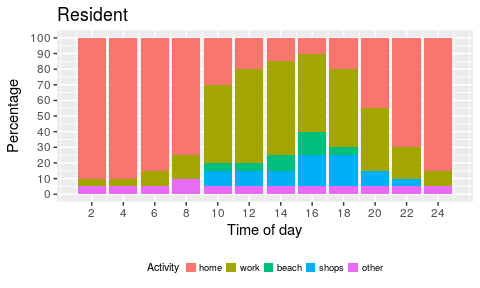
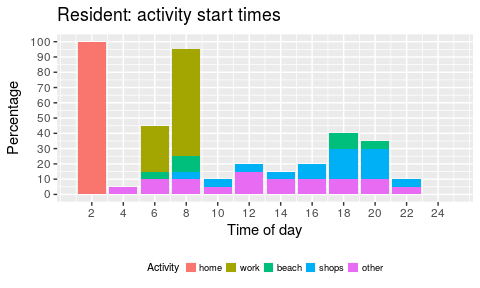
SCS: population synthesis process (work in progress)

diff --git a/examples/bushfire/scenarios/surf-coast-shire/data/synthetic-population/synthetic-population.html b/examples/bushfire/scenarios/surf-coast-shire/data/synthetic-population/synthetic-population.html
@@ -266,17 +266,17 @@ The key drawback of this approach is that the preparatory process requires manua
 <h3>Scratchpad</h3>
 <p><em>What is below is work in progress so please ignore for now.</em></p>
 <hr />
-<div id="dhi-2-may-2018" class="section level4">
-<h4>Dhi, 2 May 2018</h4>
+<div id="dhi-ver-0.2" class="section level4">
+<h4>Dhi, ver 0.2</h4>
 <p>Outputs of agent-based simulation models are inherently very sensitive to the input population. For the GOR DSS, defining where the population is, what it is doing, and what it will do in response to an emergency will strongly influence the outputs.</p>
 <p>This is a proposal for <em>how the population will be specified by users</em>. The intent is to:</p>
 <ul>
 <li>make all inputs and assumptions about the underlying population explicit so that they can be more easily critiqued, debated, and agreed upon;</li>
 <li>allow differences between populations of different scenarios to be easily understood and described;</li>
-<li>allow users to generate populations for different scenarios easily and quickly; and</li>
+<li>allow users to generate populations for different scenarios easily; and</li>
 <li>formalise the method of producing such populations, so that they can be accurately reproduced.</li>
 </ul>
-<p>In particular, what is proposed is a process for the construction of the input population with respect to the <em>expected spread of activites in the day</em> for a given situation. The <em>output of the process is a CSV file</em>, similar to what is currently used as input to the DSS, that describes the daily activity-plan for every individual in the population.</p>
+<p>In particular, what is proposed is a process for the construction of the input population with respect to the <em>expected spread of activites in the day</em> for different situations. The <em>output of the process is a CSV file</em>, similar to what is currently used as input to the DSS, that describes the daily activity-plan for every individual in the population.</p>
 <p>We will make the following assumptions with respect to the activities of the population:</p>
 <ol style="list-style-type: decimal">
 <li>The choice of activities will be limited to the following fixed set:</li>
@@ -295,40 +295,58 @@ The key drawback of this approach is that the preparatory process requires manua
 <tbody>
 <tr class="odd">
 <td><strong><code>home</code></strong></td>
-<td><em>performed once in a 24hr period</em> at the home location of a person; these locations could either be random locations in the region, or random selections from known street addresses in the region (data available from LandVic); <mark>other suggestions welcome</mark>;</td>
+<td><em>performed twice a day (morning, night)</em> at the home location of a person; these locations could either be random locations in the region, or random selections from known street addresses in the region (data available from LandVic); <mark>other suggestions welcome</mark>;</td>
 </tr>
 <tr class="even">
 <td><strong><code>work</code></strong></td>
-<td><em>performed once in a 24hr period</em> at locations designated as work areas in the region; persons will be assigned arbitrary work location coordinates in these areas; <mark>supplied by Surf Coast Shire Council</mark></td>
+<td><em>performed once a day</em> at locations designated as work areas in the region (<mark>supplied by Surf Coast Shire Council</mark>); persons will be assigned arbitrary work location coordinates in these areas; the proportion of the resident population that forms the working cohort will be based on census data for the region (<code>ABS 2016: SCS had 90.6% employed of which 66% drive to work</code>);</td>
 </tr>
 <tr class="odd">
 <td><strong><code>shop</code></strong></td>
-<td><em>performed potentially once in a 24hr period</em> at locations that represent retail and grocery shops as well as dining places; <mark>supplied by Surf Coast Shire Council</mark></td>
+<td><em>performed potentially once a day</em> at locations that represent retail and grocery shops as well as dining places; <mark>supplied by Surf Coast Shire Council</mark></td>
 </tr>
 <tr class="even">
 <td><strong><code>beach</code></strong></td>
-<td><em>performed potentially once in a 24hr</em> period at areas designated as key destinations along the coast; people visiting beaches will have equal preference for all beaches; <mark>supplied by Surf Coast Shire Council</mark></td>
+<td><em>performed potentially once a day</em> at areas designated as beach destinations along the coast (<mark>supplied by Surf Coast Shire Council</mark>); the population will have equal preference for all beaches;</td>
 </tr>
 <tr class="odd">
 <td><strong><code>other</code></strong></td>
-<td><em>performed potentially several times in a 24hr period</em>; this is a catch-all activity type to capture the fact that any given time of the day some proportion of the population will be at locations other than the above (not including commuting); people performing this activity will be placed at arbitrary locations in the region; this activity will also be used as needed twithin daily plans in order to make them coherent.</td>
+<td><em>performed potentially several times a day</em> at arbitrary locations other than those above (not including commuting); will be used as needed to make daily plans coherent.</td>
 </tr>
 </tbody>
 </table>
 <ol style="list-style-type: decimal">
 <li>Each population subgroup (i.e, <code>resident</code>, <code>regular visitor</code>, <code>tourust</code>) will differ in how they perform the above activities in the following ways:
 <ol style="list-style-type: decimal">
-<li>The proportions in which subgroups perform activities will be different; for instance tourists might be more likely to go to the beach than residents; another example is that all residents will perform the home activity while none of the tourists will.</li>
+<li>The proportions in which subgroups perform different activities will be different; for instance tourists might be more likely to go to the beach than residents; another example is that all residents will perform the home activity while none of the tourists will.</li>
 <li>The times at which subgroups perform activities will be different: for instance, tourists might be more likely to visit the beach around noon, whereas residents might be more inclined to go to the beach in the mornings and evenings to avoid the rush.</li>
 <li>The durations for which each subgroup performs activites will be different: for instance, tourists might spend more time at the beach than residents.</li>
 </ol></li>
-<li><p>Overall, individuals will differ in the makeup of their daily activity plans with respect to which activities they perform, when, for how long, and in which order.</p></li>
-<li><p>Each activity will be fully described by two distributions specifying (1) the expected start times in the day for the activity and (2) the duration of the activity; these will differ for different situations such as between weekdays and weekends, and also for subgroups, such as residents and tourists. Each scenario, such as “typical weekday” , will therefore be fully specified by six distributons (2 activity distributions x 3 subgroups). Each new scenario, such as “weekend”, “crowded beach day with FFDI of 100” will require additional 6 distributions. This will literally take the form of six graphs on a single page that are to be discussed and agreed upon for every new scenario, so is not expected to be too onerous for users.</p></li>
-<li><p>No change is proposed (yet) to the relationship between cars and persons. Currently in the model there is a one-to-one mapping from persons to vehicles such that every person drives in a separate vehicle. This means that <em>no consideration is given to family units and carpooling; also walking to vehicle which might be at a distance is not currently modelled</em> (but might be something that should be modelled, given the importance of beaches in the region).</p></li>
+<li><p>Overall, individuals in the full population will differ in the makeup of their daily activity plans with respect to which activities they perform, when, for how long, and in which order.</p></li>
+<li><p>Each activity will be fully described by (1) a distribution specifying the expected start times in the day for the activity and (2) the <em>typical duration</em> of the activity (more on this below); these will differ for different situations such as between weekdays and weekends, and also for subgroups, such as between residents and tourists. Each scenario, such as “typical weekday” , will therefore be fully specified by three distributons (one per subgroup) and three activity durations. Each new scenario, such as “weekend”, “40 degree day” will require three new distributions (and activity durations) each, so is not expected to be too onerous for users.</p></li>
+<li><p>The <code>typical duration</code> of an activity is the time a person will spend performing that activity under normal conditions, for instance 8hrs for <code>work</code>. The actual duration might get squeezed or stretched depending on how things play out during the simulation, such as due to traffic congestion. Details of the precise algorithm for this can be found in the MATSim user guide.</p></li>
+<li><p>Currently in the model <em>persons</em> are synonomous with <em>vehicles</em>. In other words, all vehicles accommodate a single person (the driver) and drivers are assumed to be co-located with their vehicles. For SCS, it <em>might be important to model persons walking to activities from their parked vehicles and back at the end of the activity</em>. This might be important for the <code>beach</code> activity in particular, where the time spent in walking from/to the parked vehicle might be significant; <mark>Discuss with working group</mark>.</p></li>
 </ol>
+<p>The following graphs show what the activity start time distributions and durations might look like for a “typical weekday”:</p>
[1 lines of base64/hex data omitted]
+<pre><code>## [1] &quot;Activity start times (24hrs split over columns)&quot;</code></pre>
+<pre><code>##       [,1] [,2] [,3] [,4] [,5] [,6] [,7] [,8] [,9] [,10] [,11] [,12]
+## home   100    0    0    0    0    0    0    0    0     0     0     0
+## work     0    0   30   70    0    0    0    0    0     0     0     0
+## beach    0    0    5   10    0    0    0    0   10     5     0     0
+## shops    0    0    0    5    5    5    5   10   20    20     5     0
+## other    0    5   10   10    5   15   10   10   10    10     5     0</code></pre>
+<pre><code>## Row sums (can exceed 100 if performed multiple times in the day): 100 100 30 75 90</code></pre>
+<pre><code>## Col sums (should not exceed 100): 100 5 45 95 10 20 15 20 40 35 10 0</code></pre>
+<pre><code>##   activity typical_duration
+## 1     home               12
+## 2     work                8
+## 3    beach                2
+## 4    shops                1
+## 5    other                1</code></pre>
 </div>
-<div id="dhi-1-may-2018" class="section level4">
-<h4>Dhi, 1 May 2018</h4>
+<div id="dhi-v0.1" class="section level4">
+<h4>Dhi, v0.1</h4>
 <p>The plots below show what the distribution of activities might look like for the identified groups <em>on a typical weekday</em>.</p>
 <pre><code>##       [,1] [,2] [,3] [,4] [,5] [,6] [,7] [,8] [,9] [,10] [,11] [,12]
 ## home    90   90   85   75   30   20   15   10   20    45    70    85

diff --git a/examples/bushfire/scenarios/surf-coast-shire/data/synthetic-population/synthetic-population.md b/examples/bushfire/scenarios/surf-coast-shire/data/synthetic-population/synthetic-population.md
@@ -74,7 +74,10 @@ The above information could then be used to automatically construct a "daily pla
 
 ---
 
-#### Dhi, 2 May 2018
+
+
+
+#### Dhi, ver 0.2
 
 Outputs of agent-based simulation models are inherently very sensitive to the input population. For the GOR DSS, defining where the population is, what it is doing, and what it will do in response to an emergency will strongly influence the outputs. 
 
@@ -82,10 +85,10 @@ This is a proposal for *how the population will be specified by users*. The inte
 
 * make all inputs and assumptions about the underlying population explicit so that they can be more easily critiqued, debated, and agreed upon;
 * allow differences between populations of different scenarios to be easily understood and described;
-* allow users to generate populations for different scenarios easily and quickly; and
+* allow users to generate populations for different scenarios easily; and
 * formalise the method of producing such populations, so that they can be accurately reproduced.
 
-In particular, what is proposed is a process for the construction of the input population with respect to the *expected spread of activites in the day* for a given situation. The *output of the process is a CSV file*, similar to what is currently used as input to the DSS, that describes the daily activity-plan for every individual in the population.
+In particular, what is proposed is a process for the construction of the input population with respect to the *expected spread of activites in the day* for different situations. The *output of the process is a CSV file*, similar to what is currently used as input to the DSS, that describes the daily activity-plan for every individual in the population.
 
 We will make the following assumptions with respect to the activities of the population:
 
@@ -93,27 +96,61 @@ We will make the following assumptions with respect to the activities of the pop
 
 Activity | Description
 ---------- | -------------------------------------------------------------------
-**`home`** | *performed once in a 24hr period* at the home location of a person; these locations could either be random locations in the region, or random selections from known street addresses in the region (data available from LandVic); <mark>other suggestions welcome</mark>;
-**`work`** | *performed once in a 24hr period* at locations designated as work areas in the region; persons will be assigned arbitrary work location coordinates in these areas; <mark>supplied by Surf Coast Shire Council</mark>
-**`shop`** | *performed potentially once in a 24hr period* at locations that represent retail and grocery shops as well as dining places; <mark>supplied by Surf Coast Shire Council</mark> 
-**`beach`** | *performed potentially once in a 24hr* period at areas designated as key destinations along the coast; people visiting beaches will have equal preference for all beaches; <mark>supplied by Surf Coast Shire Council</mark> 
-**`other`** | *performed potentially several times in a 24hr period*; this is a catch-all activity type to capture the fact that any given time of the day some proportion of the population will be at locations other than the above (not including commuting); people performing this activity will be placed at arbitrary locations in the region; this activity will also be used as needed twithin daily plans in order to make them coherent.
+**`home`** | *performed twice a day (morning, night)* at the home location of a person; these locations could either be random locations in the region, or random selections from known street addresses in the region (data available from LandVic); <mark>other suggestions welcome</mark>;
+**`work`** | *performed once a day* at locations designated as work areas in the region (<mark>supplied by Surf Coast Shire Council</mark>); persons will be assigned arbitrary work location coordinates in these areas; the proportion of the resident population that forms the working cohort will be based on census data for the region (`ABS 2016: SCS had 90.6% employed of which 66% drive to work`); 
+**`shop`** | *performed potentially once a day* at locations that represent retail and grocery shops as well as dining places; <mark>supplied by Surf Coast Shire Council</mark> 
+**`beach`** | *performed potentially once a day* at areas designated as beach destinations along the coast (<mark>supplied by Surf Coast Shire Council</mark>); the population will have equal preference for all beaches; 
+**`other`** | *performed potentially several times a day* at arbitrary locations other than those above (not including commuting); will be used as needed to make daily plans coherent.
 
 1. Each population subgroup (i.e, `resident`, `regular visitor`, `tourust`) will differ in how they perform the above activities in the following ways:
-    1. The proportions in which subgroups perform activities will be different; for instance tourists might be more likely to go to the beach than residents; another example is that all residents will perform the home activity while none of the tourists will.
+    1. The proportions in which subgroups perform different activities will be different; for instance tourists might be more likely to go to the beach than residents; another example is that all residents will perform the home activity while none of the tourists will.
     1. The times at which subgroups perform activities will be different: for instance, tourists might be more likely to visit the beach around noon, whereas residents might be more inclined to go to the beach in the mornings and evenings to avoid the rush.
     1. The durations for which each subgroup performs activites will be different: for instance, tourists might spend more time at the beach than residents.
 
-1. Overall, individuals will differ in the makeup of their daily activity plans with respect to which activities they perform, when, for how long, and in which order.
+1. Overall, individuals in the full population will differ in the makeup of their daily activity plans with respect to which activities they perform, when, for how long, and in which order.
 
-1. Each activity will be fully described by two distributions specifying (1) the expected start times in the day for the activity and (2) the duration of the activity; these will differ for different situations such as between weekdays and weekends, and also for subgroups, such as residents and tourists. Each scenario, such as "typical weekday" , will therefore be fully specified by six distributons (2 activity distributions x 3 subgroups). Each new scenario, such as "weekend", "crowded beach day with FFDI of 100" will require additional 6 distributions. This will literally take the form of six graphs on a single page that are to be discussed and agreed upon for every new scenario, so is not expected to be too onerous for users.
+1. Each activity will be fully described by (1) a distribution specifying the expected start times in the day for the activity and (2) the *typical duration* of the activity (more on this below); these will differ for different situations such as between weekdays and weekends, and also for subgroups, such as between residents and tourists. Each scenario, such as "typical weekday" , will therefore be fully specified by three distributons (one per subgroup) and three activity durations. Each new scenario, such as "weekend", "40 degree day" will require three new distributions (and activity durations) each, so is not expected to be too onerous for users.
 
-1. No change is proposed (yet) to the relationship between cars and persons. Currently in the model there is a one-to-one mapping from persons to vehicles such that every person drives in a separate vehicle. This means that *no consideration is given to family units and carpooling; also walking to vehicle which might be at a distance is not currently modelled* (but might be something that should be modelled, given the importance of beaches in the region).
+  1. The `typical duration` of an activity is the time a person will spend performing that activity under normal conditions, for instance 8hrs for `work`. The actual duration might get squeezed or stretched depending on how things play out during the simulation, such as due to traffic congestion. Details of the precise algorithm for this can be found in the MATSim user guide. 
+  
+  1. Currently in the model *persons* are synonomous with *vehicles*. In other words, all vehicles accommodate a single person (the driver) and drivers are assumed to be co-located with their vehicles. For SCS, it *might be important to model persons walking to activities from their parked vehicles and back at the end of the activity*. This might be important for the `beach` activity in particular, where the time spent in walking from/to the parked vehicle might be significant; <mark>Discuss with working group</mark>.
+
+The following graphs show what the activity start time distributions and durations might look like for a "typical weekday":
+
+![](synthetic-population_files/figure-html/unnamed-chunk-3-1.png)<!-- -->
+
+```
+## [1] "Activity start times (24hrs split over columns)"
+```
+
+```
+##       [,1] [,2] [,3] [,4] [,5] [,6] [,7] [,8] [,9] [,10] [,11] [,12]
+## home   100    0    0    0    0    0    0    0    0     0     0     0
+## work     0    0   30   70    0    0    0    0    0     0     0     0
+## beach    0    0    5   10    0    0    0    0   10     5     0     0
+## shops    0    0    0    5    5    5    5   10   20    20     5     0
+## other    0    5   10   10    5   15   10   10   10    10     5     0
+```
+
+```
+## Row sums (can exceed 100 if performed multiple times in the day): 100 100 30 75 90
+```
+
+```
+## Col sums (should not exceed 100): 100 5 45 95 10 20 15 20 40 35 10 0
+```
+
+```
+##   activity typical_duration
+## 1     home               12
+## 2     work                8
+## 3    beach                2
+## 4    shops                1
+## 5    other                1
+```
 
 
-#### Dhi, 1 May 2018
-
-
+#### Dhi, v0.1
 
 The plots below show what the distribution of activities might look like for the identified groups *on a typical weekday*.  
 
@@ -127,7 +164,7 @@ The plots below show what the distribution of activities might look like for the
 ## other    5    5    5   10    5    5    5    5    5     5     5     5
 ```
 
-![](synthetic-population_files/figure-html/unnamed-chunk-3-1.png)<!-- -->
+![](synthetic-population_files/figure-html/unnamed-chunk-4-1.png)<!-- -->
 
 ```
 ##       [,1] [,2] [,3] [,4] [,5] [,6] [,7] [,8] [,9] [,10] [,11] [,12]
@@ -138,7 +175,7 @@ The plots below show what the distribution of activities might look like for the
 ## other   10    5    5   10    5   15    5   15   25    10    15    30
 ```
 
-![](synthetic-population_files/figure-html/unnamed-chunk-3-2.png)<!-- -->
+![](synthetic-population_files/figure-html/unnamed-chunk-4-2.png)<!-- -->
 
 ```
 ##       [,1] [,2] [,3] [,4] [,5] [,6] [,7] [,8] [,9] [,10] [,11] [,12]
@@ -149,4 +186,4 @@ The plots below show what the distribution of activities might look like for the
 ## other  100  100  100   80   60   10   10   20   10    40    75   100
 ```
 
-![](synthetic-population_files/figure-html/unnamed-chunk-3-3.png)<!-- -->
+![](synthetic-population_files/figure-html/unnamed-chunk-4-3.png)<!-- -->
